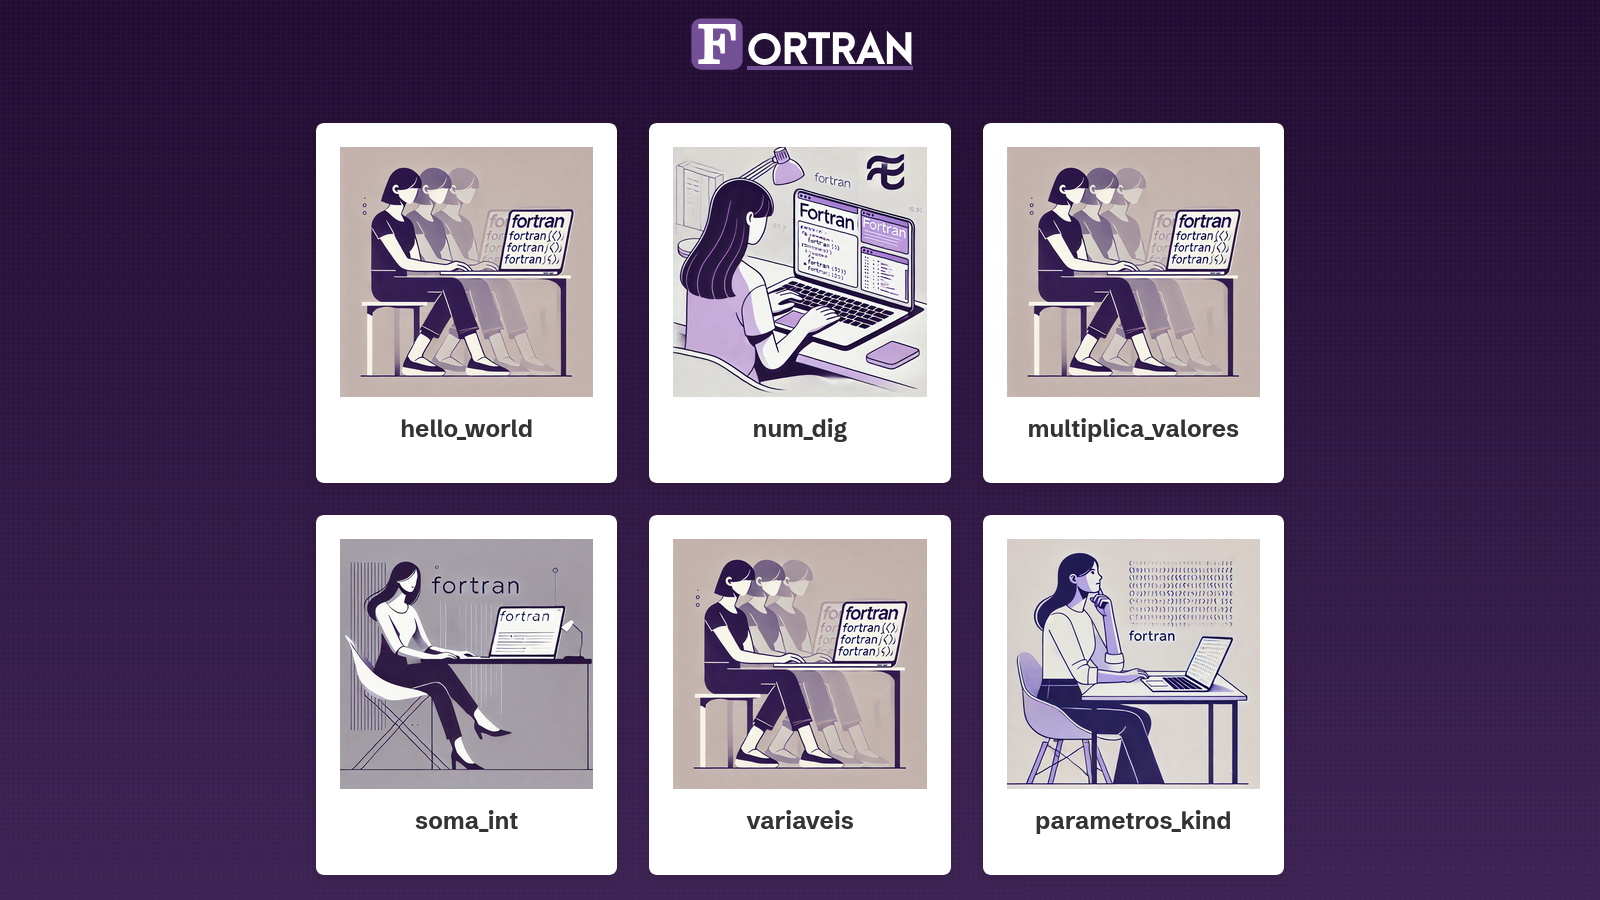
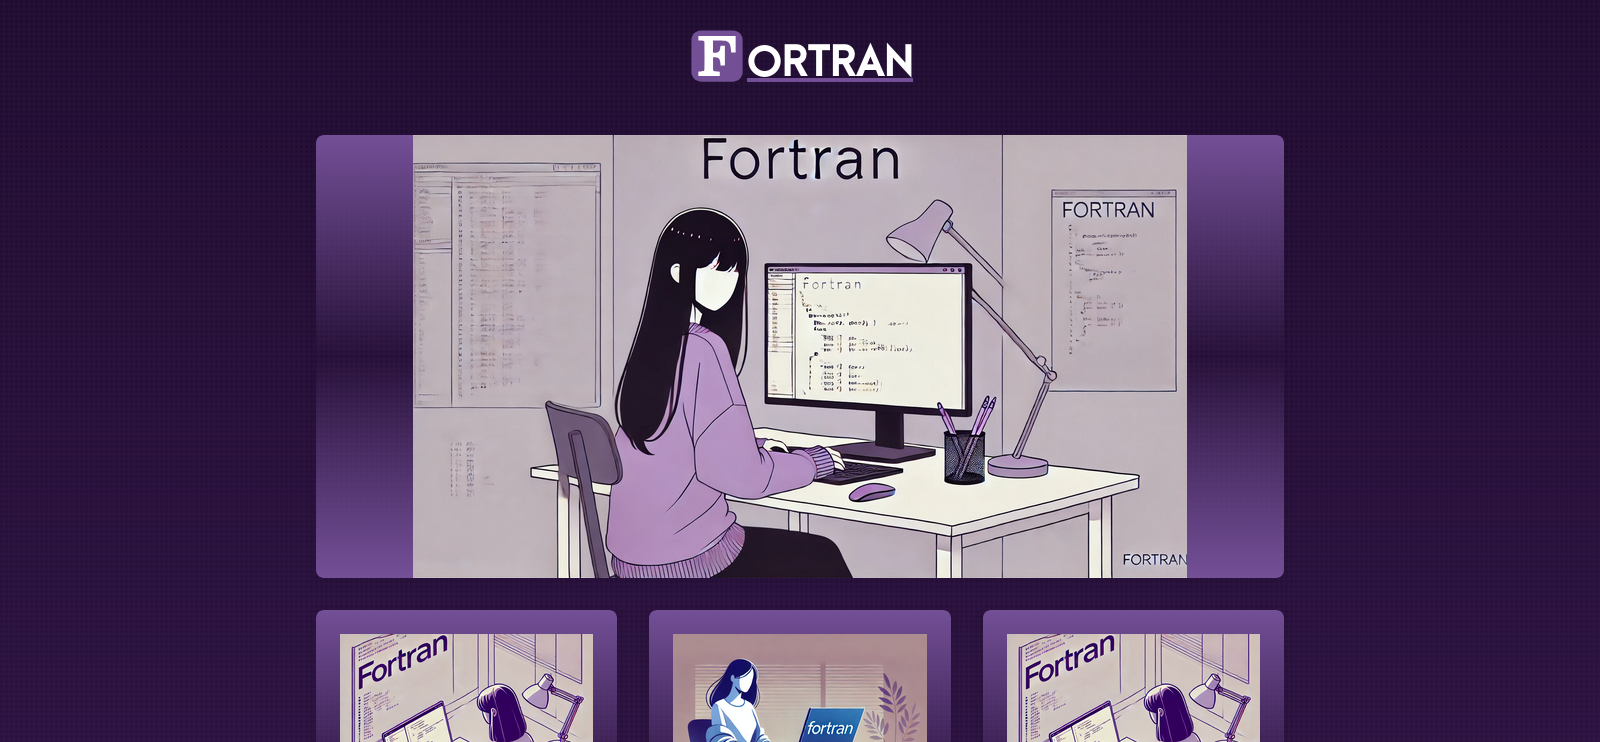
feat: improved the style of the "body" tag and added a new image, changed the color tone of the texts and created a new initial card with the image.

diff --git a/web/styles/style.css b/web/styles/style.css
@@ -12,7 +12,35 @@ body {
   font-family: schibsted;
   font-weight: bold;
   color: #333;
-  background-image: linear-gradient(180deg, #1c092b, #734f96);
+  background-image: linear-gradient(
+    180deg,
+    #1c092b,
+    #200b30,
+    #230d35,
+    #270f3a,
+    #2a113f,
+    #2e1344,
+    #311549,
+    #35174e,
+    #381953,
+    #3c1b58,
+    #3f1d5d,
+    #431f62,
+    #462167,
+    #270f3a,
+    #2a113f,
+    #2e1344,
+    #311549,
+    #35174e,
+    #381953,
+    #3c1b58,
+    #381953,
+    #3c1b58,
+    #3f1d5d,
+    #431f62,
+    #462167,
+    #1c092b
+  );
   user-select: none;
   min-height: 100vh;
   position: relative;
@@ -83,20 +111,24 @@ img {
   grid-template-columns: repeat(auto-fit, minmax(300px, 1fr));
   gap: 2rem;
   list-style: none;
+  margin: 0; /* Adicionado */
+  max-width: 100%;
 }
 
 .card-list {
-  background-color: #fff;
+  background-image: linear-gradient(180deg, #734f96, transparent, #734f96);
+  color: #d9d9d9;
   border-radius: 8px;
   box-shadow: 0 4px 8px rgba(0, 0, 0, 0.1);
   overflow: hidden;
   transition: transform 0.3s ease;
 }
 
-.card-list:hover, .card-list.focus-style {
+.card-list:hover,
+.card-list.focus-style {
   transform: translateY(-5px);
   box-shadow: 0 8px 16px rgba(0, 0, 0, 0.2);
-  color: #734f96;
+  color: #1c092b;
 }
 
 .card-listLink {
@@ -178,15 +210,40 @@ footer::before {
   background-repeat: no-repeat;
   background-position: center;
   background-size: cover;
-  color: #cccccc;
 }
 
-.other-projects {
+.card-special:hover {
+  background-image: url(../assets/images/particulas-espaciais.gif);
+  background-repeat: no-repeat;
+  background-position: center;
+  background-size: cover;
+  color: #734f96;
+}
+
+.other-projects,
+.pic-pretty {
   grid-column: 1 / -1;
   display: flex;
   flex-direction: column;
   align-items: center;
   padding: 2rem;
+}
+
+.pic-pretty {
+  grid-column: 1 / -1;
+  display: flex;
+  flex-direction: column;
+  align-items: center;
+  justify-content: center;
+  padding: 0;
+  background-image: linear-gradient(180deg, #734f96, transparent, #734f96);
+}
+
+.pic-pretty img {
+  width: 80%;
+  height: auto;
+  display: block;
+  margin: 0 auto;
 }
 
 .card-special-content {
@@ -199,14 +256,14 @@ footer::before {
 
 .card-special-link {
   text-decoration: none;
-  color: #333;
+  color: #cccccc;
   display: flex;
   flex-direction: column;
   align-items: center;
 }
 
 .card-special-link:hover {
-  color: #734f96;
+  color: #1c092b;
 }
 
 .card-special-link picture {

diff --git a/web/index.html b/web/index.html
@@ -118,6 +118,11 @@
     <main>
       <div class="content">
         <div class="card-wrap" role="list" aria-label="Lista de Projetos">
+          <article class="card-list pic-pretty">
+            <a href="./">
+              <img src="./assets/images/pic-pretty.webp" alt="Imagem bonita" />
+            </a>
+          </article>
           <article class="card-list">
             <a
               href="./projetos/01_hello_world/hello_world"
